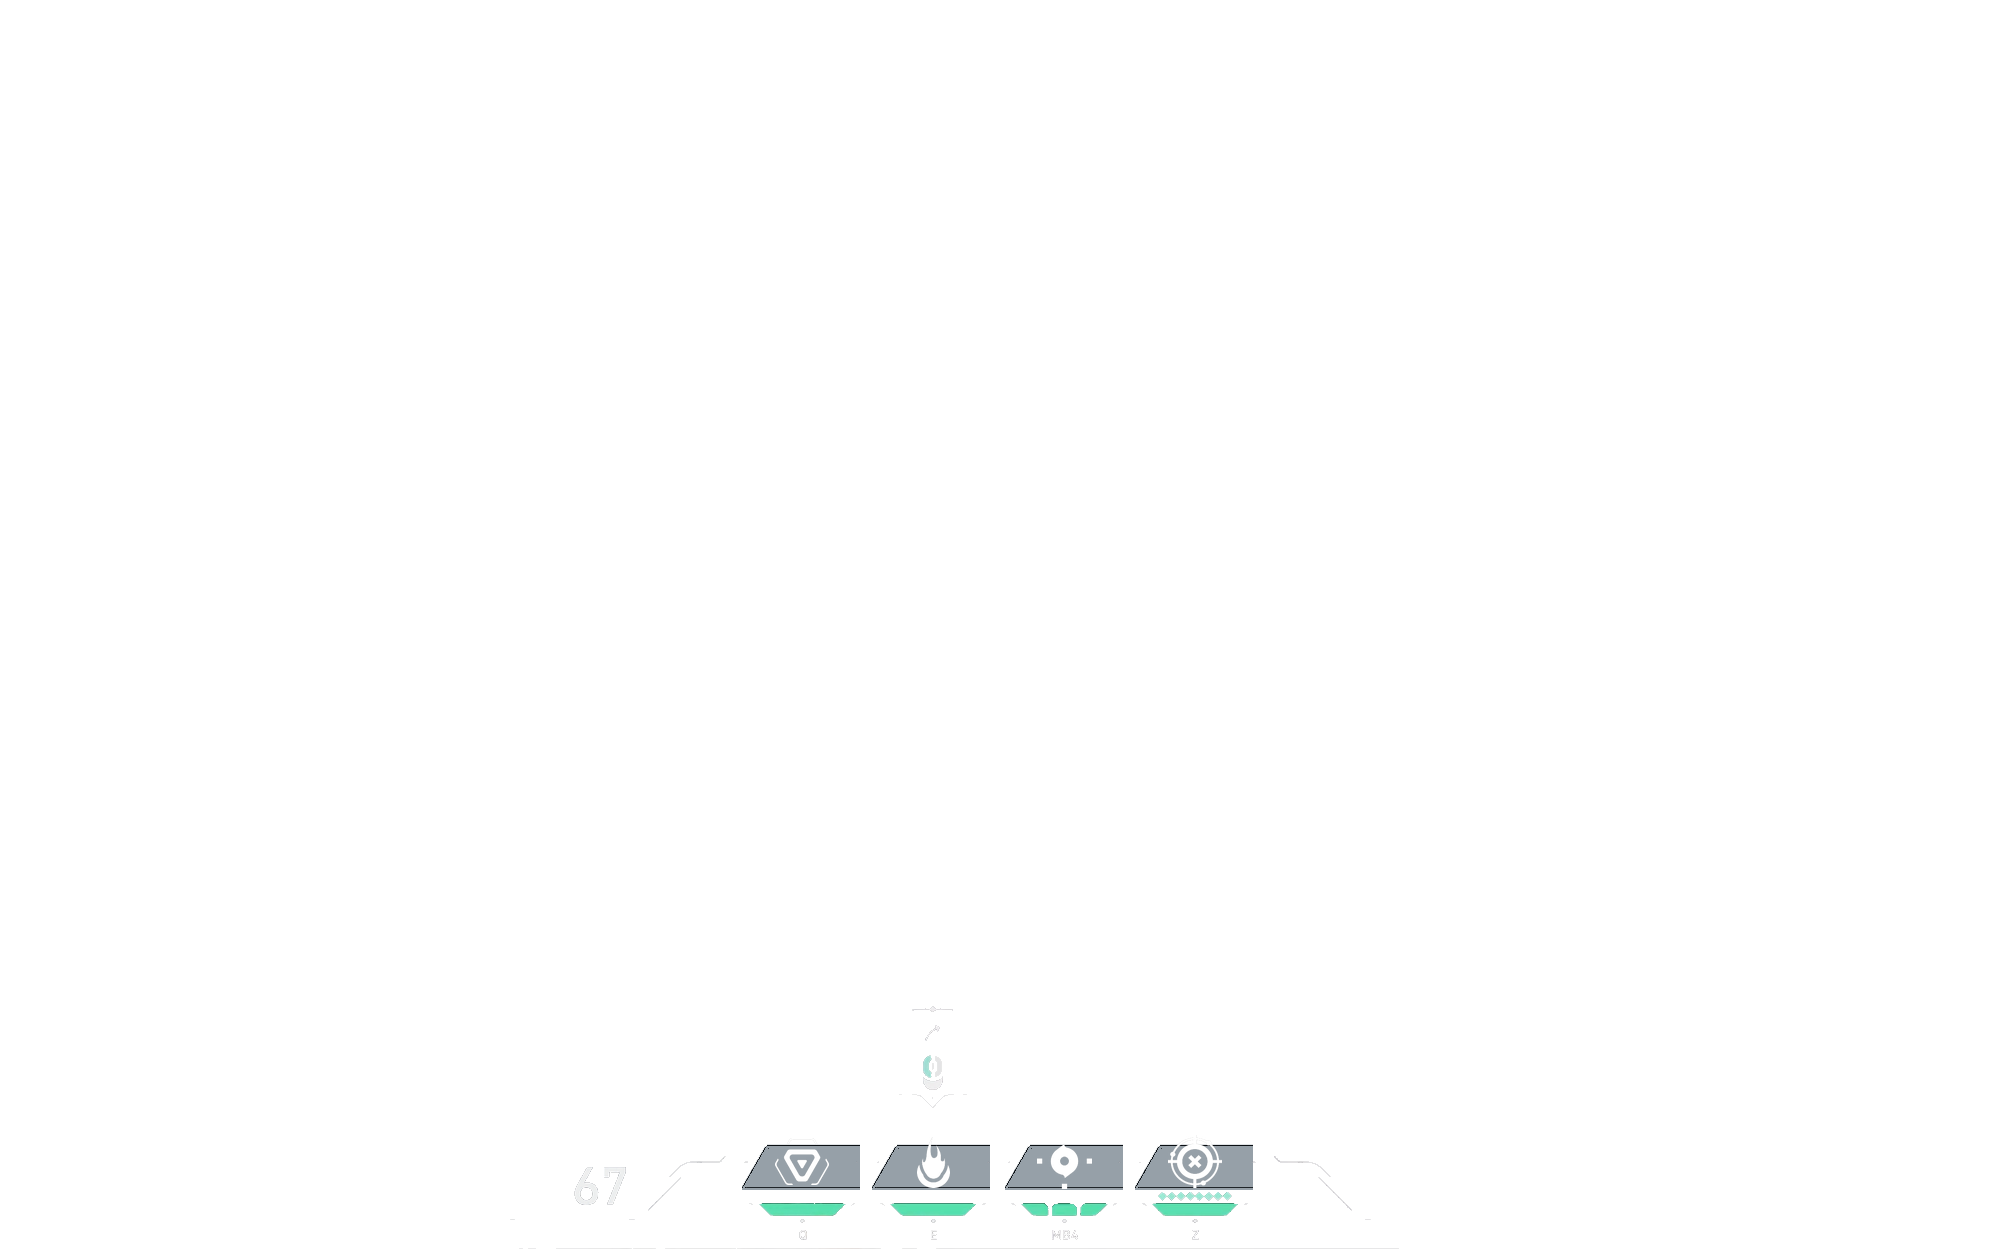
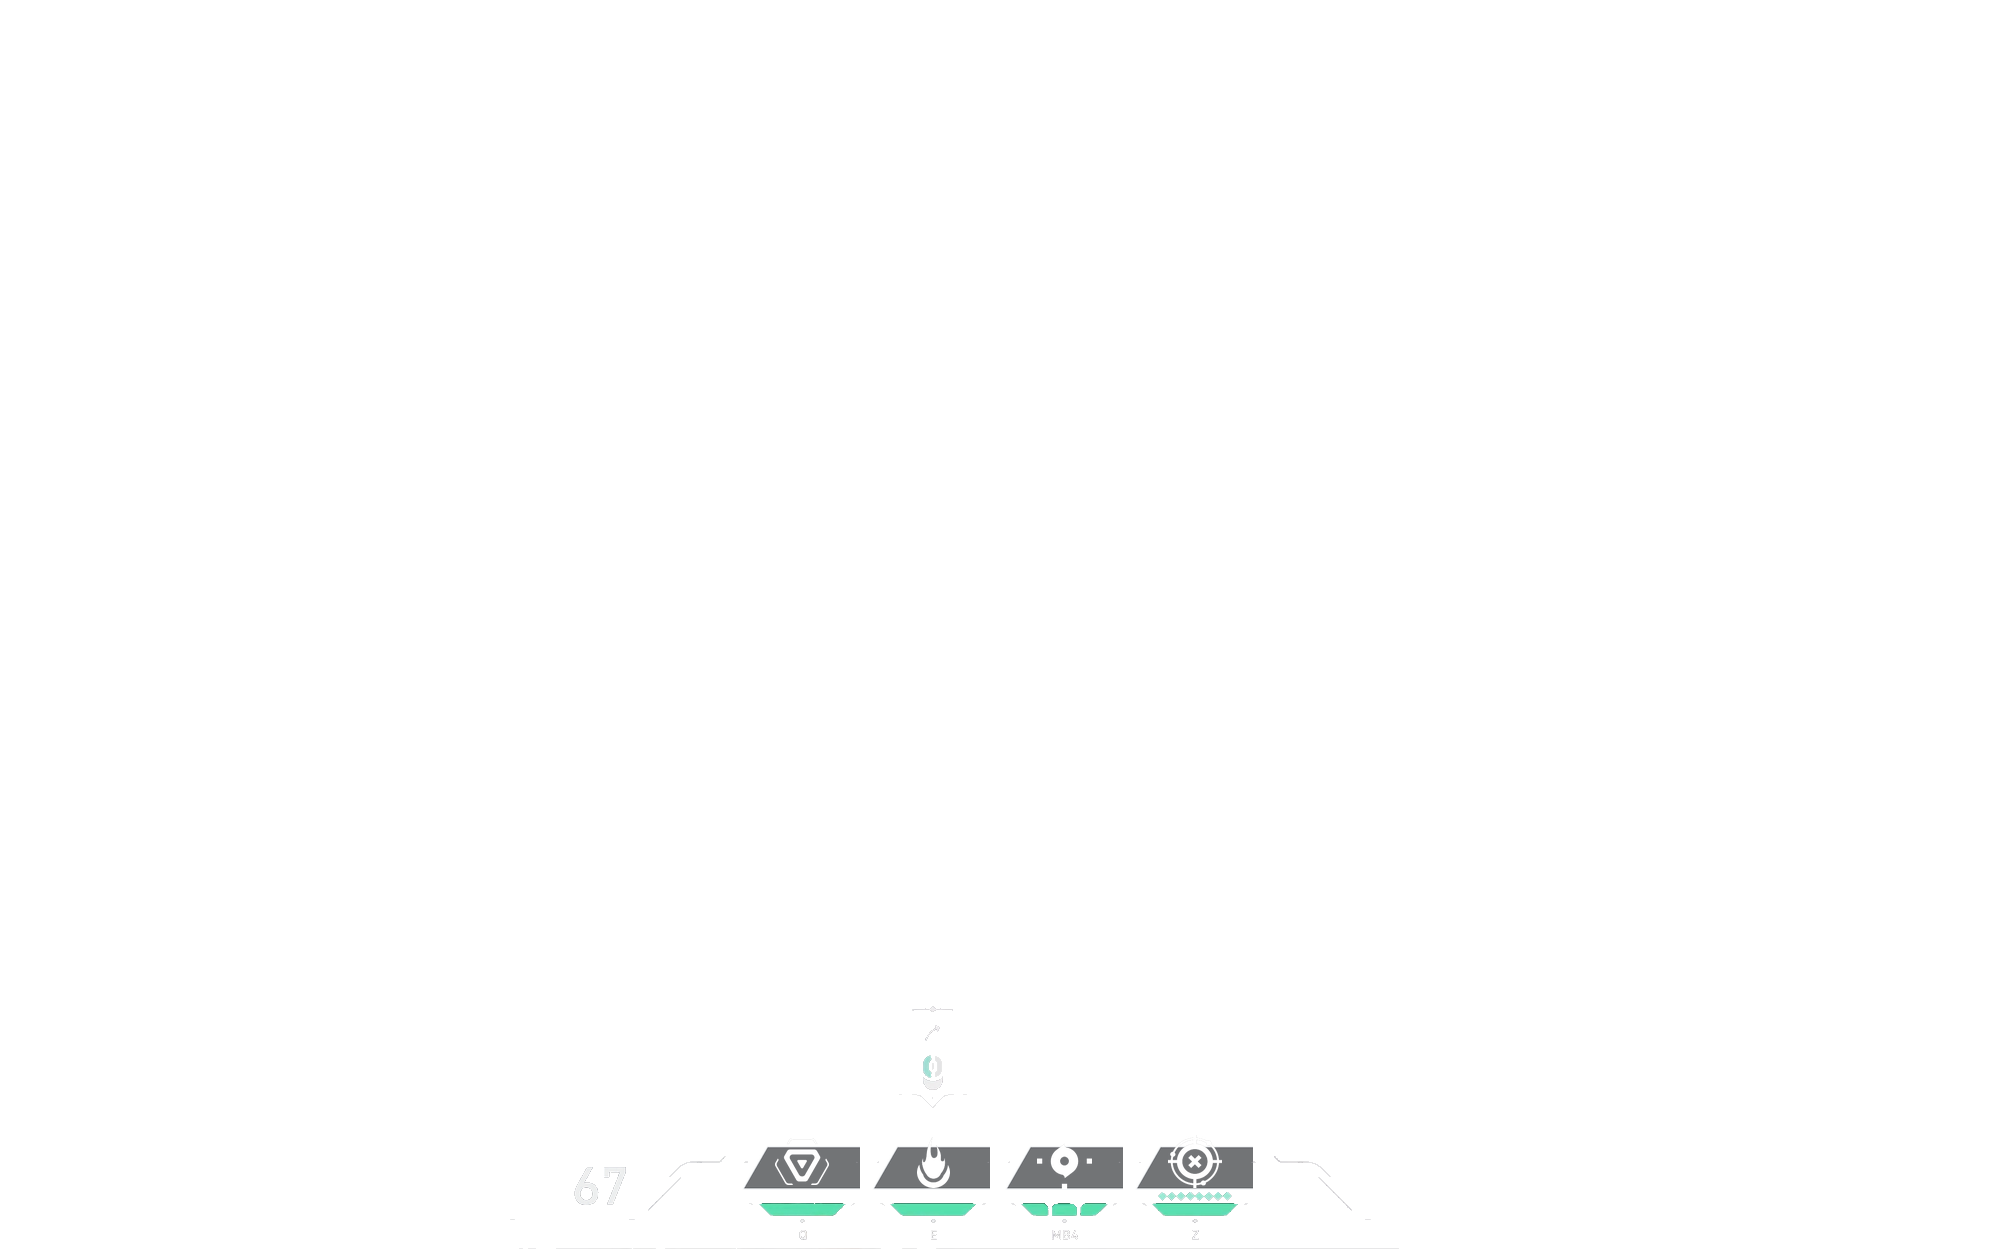
fix HUD plates: alpha math clamped everything opaque (the 'weird gray stuff')
mask.point(v * amax) with v in 0..255 saturates at 255 - every plate and
frame rendered as a solid slab. Normalized (v/255 * amax): plates are the
intended dark translucent panels (a153 center), frame faint. Rebuilt from
the pre-plate original. hud.png?v=5.

Changed region(s): [[0.3722, 0.9055, 0.6513, 0.968]]

diff --git a/cards/picker.html b/cards/picker.html
@@ -127,7 +127,7 @@ body.compact #img { width: min(640px, calc(100vw - 110px)) }
   </div>
   <div class="card" id="walkcard">
     <h2>Walk mode - you are the player</h2>
-    <div id="povwrap"><img id="pov" width="960" height="600"><img class="hudlayer" src="hud.png?v=4"></div>
+    <div id="povwrap"><img id="pov" width="960" height="600"><img class="hudlayer" src="hud.png?v=5"></div>
     <div id="povinfo">spawning...</div>
     <div id="povhelp">Click the view to lock your mouse. <b>Mouse</b> aims - <b>WASD</b> moves - <b>Shift</b> runs -
       <b>T / click</b> throws from exactly here - <b>Esc</b> releases the mouse.</div>
@@ -136,7 +136,7 @@ body.compact #img { width: min(640px, calc(100vw - 110px)) }
 </main>
 <div id="bigmodal" onclick="this.style.display='none'">
   <span id="bigx">&times;</span>
-  <span class="aimwrap" onclick="event.stopPropagation()"><img id="bigimg"><img class="hudlayer" src="hud.png?v=4"></span>
+  <span class="aimwrap" onclick="event.stopPropagation()"><img id="bigimg"><img class="hudlayer" src="hud.png?v=5"></span>
 </div>
 <script>
 function bigAim(el) {
@@ -302,7 +302,7 @@ function lineupHtml(l, n) {
 }
 function imgsHtml(ims) {
   return ims.map((im, k) => k === 0
-    ? `<span class='aimwrap' onclick='bigAim(this)' title='click to enlarge'><img src='${im}'><img class='hudlayer' src='hud.png?v=4'></span>`
+    ? `<span class='aimwrap' onclick='bigAim(this)' title='click to enlarge'><img src='${im}'><img class='hudlayer' src='hud.png?v=5'></span>`
     : `<img src='${im}'>`).join('');
 }
 // map world -> minimap fraction (inverse of toWorld)
